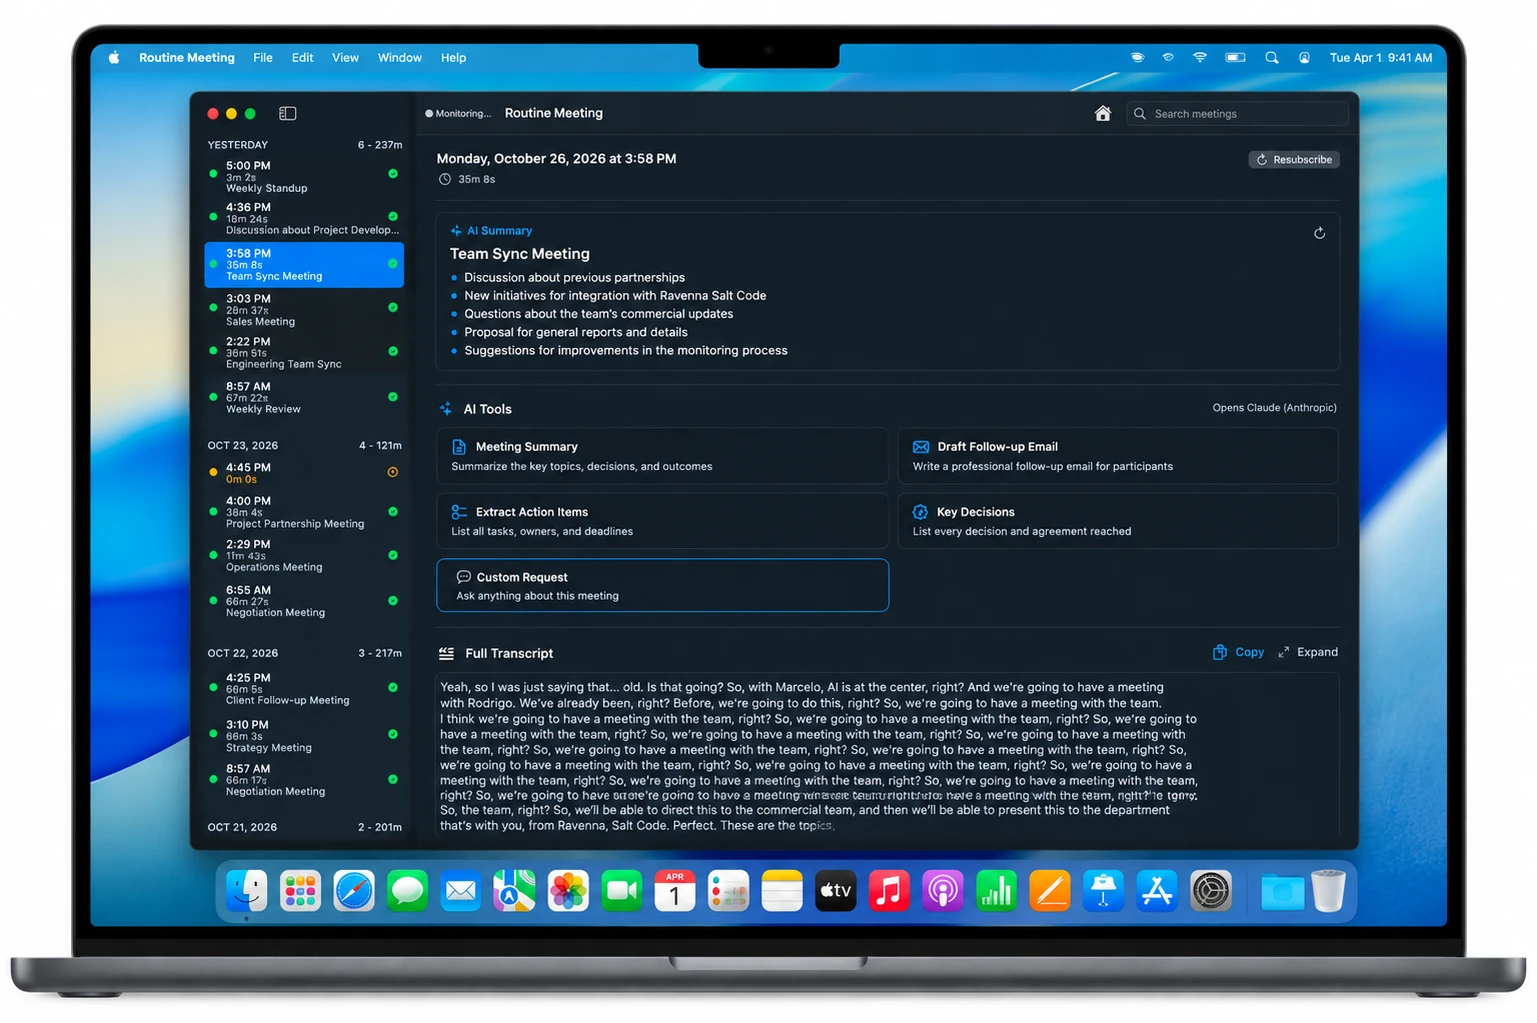
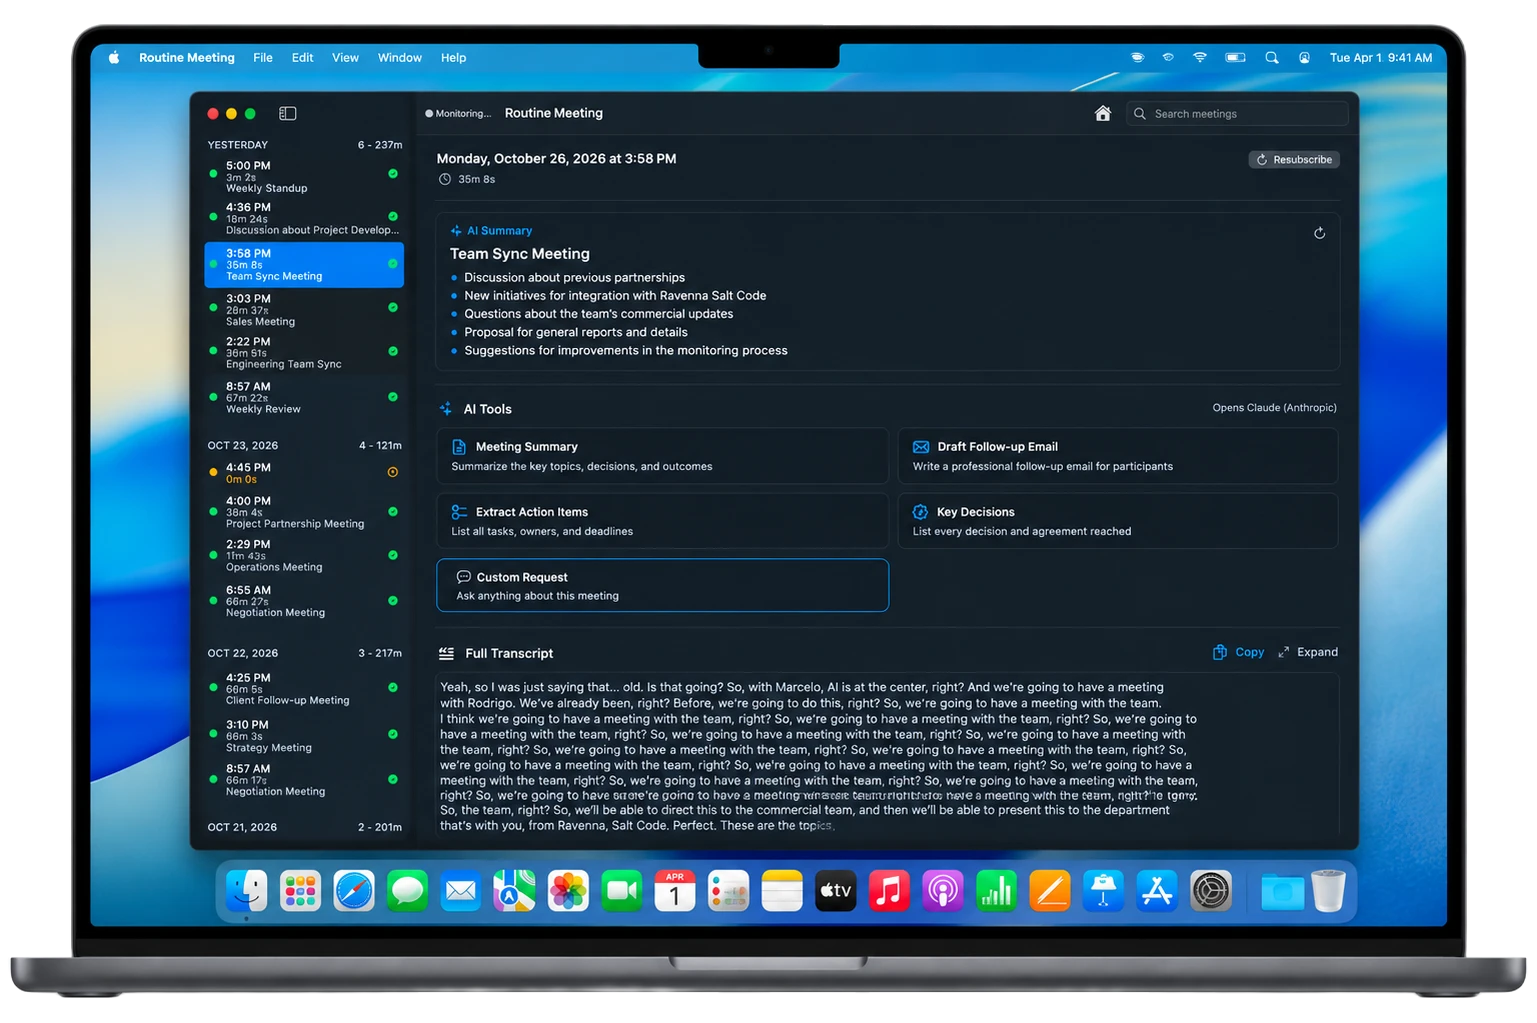
Use transparent-background screenshots and float them on the dark page
Replace the hero and meeting-view images with versions that have a
transparent background, drop the card border, radius and box shadow in
favor of a drop shadow, and cache-bust the image URLs on all pages.

Changed region(s): [[0.0312, 0.9394, 0.9681, 1.0]]

diff --git a/docs/es/index.html b/docs/es/index.html
@@ -123,7 +123,7 @@
     </div>
     <p class="hero-meta">Gratis · Apple Silicon · macOS 13+ · Sin cuenta requerida</p>
     <div class="hero-shot">
-      <img src="../screenshots/app-main.webp" width="1537" height="1023" alt="Ventana principal de Routine Meeting: lista de reuniones, estadísticas semanales y la página de inicio "De qué estás hablando"" fetchpriority="high" />
+      <img src="../screenshots/app-main.webp?v=2" width="1537" height="1023" alt="Ventana principal de Routine Meeting: lista de reuniones, estadísticas semanales y la página de inicio "De qué estás hablando"" fetchpriority="high" />
     </div>
   </header>
 
@@ -178,7 +178,7 @@
       <h2>Todo lo de la llamada, en un solo lugar</h2>
       <p class="section-lead">Abre cualquier reunión para ver su resumen con IA, herramientas de IA con un clic para el seguimiento y la transcripción completa, lista para copiar.</p>
       <div class="hero-shot showcase-shot">
-        <img src="../screenshots/app-meeting.webp" width="1537" height="1023" alt="Vista de una reunión en Routine Meeting: resumen con IA, herramientas de IA y transcripción completa" loading="lazy" />
+        <img src="../screenshots/app-meeting.webp?v=2" width="1537" height="1023" alt="Vista de una reunión en Routine Meeting: resumen con IA, herramientas de IA y transcripción completa" loading="lazy" />
       </div>
     </div>
   </section>

diff --git a/docs/pt-BR/index.html b/docs/pt-BR/index.html
@@ -123,7 +123,7 @@
     </div>
     <p class="hero-meta">Gratuito · Apple Silicon · macOS 13+ · Sem conta necessária</p>
     <div class="hero-shot">
-      <img src="../screenshots/app-main.webp" width="1537" height="1023" alt="Janela principal do Routine Meeting: lista de reuniões, estatísticas semanais e a página inicial "O que você está discutindo"" fetchpriority="high" />
+      <img src="../screenshots/app-main.webp?v=2" width="1537" height="1023" alt="Janela principal do Routine Meeting: lista de reuniões, estatísticas semanais e a página inicial "O que você está discutindo"" fetchpriority="high" />
     </div>
   </header>
 
@@ -178,7 +178,7 @@
       <h2>Tudo da call, num só lugar</h2>
       <p class="section-lead">Abra qualquer reunião para ver o resumo com IA, ferramentas de IA de um clique para o acompanhamento e a transcrição completa, pronta para copiar.</p>
       <div class="hero-shot showcase-shot">
-        <img src="../screenshots/app-meeting.webp" width="1537" height="1023" alt="Tela de uma reunião no Routine Meeting: resumo com IA, ferramentas de IA e transcrição completa" loading="lazy" />
+        <img src="../screenshots/app-meeting.webp?v=2" width="1537" height="1023" alt="Tela de uma reunião no Routine Meeting: resumo com IA, ferramentas de IA e transcrição completa" loading="lazy" />
       </div>
     </div>
   </section>

diff --git a/docs/fr/index.html b/docs/fr/index.html
@@ -124,7 +124,7 @@
     </div>
     <p class="hero-meta">Gratuit · Apple Silicon · macOS 13+ · Aucun compte requis</p>
     <div class="hero-shot">
-      <img src="../screenshots/app-main.webp" width="1537" height="1023" alt="Fenêtre principale de Routine Meeting : liste des réunions, statistiques hebdomadaires et la page d'accueil « De quoi vous parlez »" fetchpriority="high" />
+      <img src="../screenshots/app-main.webp?v=2" width="1537" height="1023" alt="Fenêtre principale de Routine Meeting : liste des réunions, statistiques hebdomadaires et la page d'accueil « De quoi vous parlez »" fetchpriority="high" />
     </div>
   </header>
 
@@ -178,7 +178,7 @@
       <h2>Tout l'appel, au même endroit</h2>
       <p class="section-lead">Ouvrez une réunion pour voir son résumé IA, des outils d'IA en un clic pour le suivi et la transcription complète, prête à copier.</p>
       <div class="hero-shot showcase-shot">
-        <img src="../screenshots/app-meeting.webp" width="1537" height="1023" alt="Vue d'une réunion dans Routine Meeting : résumé IA, outils d'IA et transcription complète" loading="lazy" />
+        <img src="../screenshots/app-meeting.webp?v=2" width="1537" height="1023" alt="Vue d'une réunion dans Routine Meeting : résumé IA, outils d'IA et transcription complète" loading="lazy" />
       </div>
     </div>
   </section>

diff --git a/docs/ja/index.html b/docs/ja/index.html
@@ -122,7 +122,7 @@
     </div>
     <p class="hero-meta">無料 · Apple Silicon · macOS 13以降 · アカウント不要</p>
     <div class="hero-shot">
-      <img src="../screenshots/app-main.webp" width="1537" height="1023" alt="Routine Meeting のメインウィンドウ:会議リスト、週間統計、「今話していること」ホーム画面" fetchpriority="high" />
+      <img src="../screenshots/app-main.webp?v=2" width="1537" height="1023" alt="Routine Meeting のメインウィンドウ:会議リスト、週間統計、「今話していること」ホーム画面" fetchpriority="high" />
     </div>
   </header>
 
@@ -172,7 +172,7 @@
       <h2>通話のすべてを一か所に</h2>
       <p class="section-lead">会議を開くと、AI要約、フォローアップ用のワンクリックAIツール、コピーできる全文の文字起こしが見られます。</p>
       <div class="hero-shot showcase-shot">
-        <img src="../screenshots/app-meeting.webp" width="1537" height="1023" alt="Routine Meeting の会議画面:AI要約、AIツール、全文の文字起こし" loading="lazy" />
+        <img src="../screenshots/app-meeting.webp?v=2" width="1537" height="1023" alt="Routine Meeting の会議画面:AI要約、AIツール、全文の文字起こし" loading="lazy" />
       </div>
     </div>
   </section>

diff --git a/docs/index.html b/docs/index.html
@@ -126,7 +126,7 @@
     </div>
     <p class="hero-meta">Free · Apple Silicon · macOS 13+ · No account required</p>
     <div class="hero-shot">
-      <img src="screenshots/app-main.webp" width="1537" height="1023" alt="Routine Meeting main window: meeting list, weekly stats and the What you're discussing home page" fetchpriority="high" />
+      <img src="screenshots/app-main.webp?v=2" width="1537" height="1023" alt="Routine Meeting main window: meeting list, weekly stats and the What you're discussing home page" fetchpriority="high" />
     </div>
   </header>
 
@@ -180,7 +180,7 @@
       <h2>Everything from the call, in one place</h2>
       <p class="section-lead">Open any meeting to see its AI summary, one-click AI tools for follow-ups, and the full transcript, ready to copy.</p>
       <div class="hero-shot showcase-shot">
-        <img src="screenshots/app-meeting.webp" width="1537" height="1023" alt="Routine Meeting meeting view: AI summary, AI tools for follow-up email, action items and key decisions, and the full transcript" loading="lazy" />
+        <img src="screenshots/app-meeting.webp?v=2" width="1537" height="1023" alt="Routine Meeting meeting view: AI summary, AI tools for follow-up email, action items and key decisions, and the full transcript" loading="lazy" />
       </div>
     </div>
   </section>

diff --git a/docs/de/index.html b/docs/de/index.html
@@ -123,7 +123,7 @@
     </div>
     <p class="hero-meta">Kostenlos · Apple Silicon · macOS 13+ · Kein Konto erforderlich</p>
     <div class="hero-shot">
-      <img src="../screenshots/app-main.webp" width="1537" height="1023" alt="Hauptfenster von Routine Meeting: Meeting-Liste, Wochenstatistik und Startseite "Worüber ihr sprecht"" fetchpriority="high" />
+      <img src="../screenshots/app-main.webp?v=2" width="1537" height="1023" alt="Hauptfenster von Routine Meeting: Meeting-Liste, Wochenstatistik und Startseite "Worüber ihr sprecht"" fetchpriority="high" />
     </div>
   </header>
 
@@ -178,7 +178,7 @@
       <h2>Alles vom Call an einem Ort</h2>
       <p class="section-lead">Öffne ein Meeting und sieh die KI-Zusammenfassung, KI-Werkzeuge für Follow-ups per Klick und das vollständige Transkript, bereit zum Kopieren.</p>
       <div class="hero-shot showcase-shot">
-        <img src="../screenshots/app-meeting.webp" width="1537" height="1023" alt="Meeting-Ansicht in Routine Meeting: KI-Zusammenfassung, KI-Werkzeuge und vollständiges Transkript" loading="lazy" />
+        <img src="../screenshots/app-meeting.webp?v=2" width="1537" height="1023" alt="Meeting-Ansicht in Routine Meeting: KI-Zusammenfassung, KI-Werkzeuge und vollständiges Transkript" loading="lazy" />
       </div>
     </div>
   </section>

diff --git a/docs/ko/index.html b/docs/ko/index.html
@@ -122,7 +122,7 @@
     </div>
     <p class="hero-meta">무료 · Apple Silicon · macOS 13 이상 · 계정 불필요</p>
     <div class="hero-shot">
-      <img src="../screenshots/app-main.webp" width="1537" height="1023" alt="Routine Meeting 메인 창: 회의 목록, 주간 통계, "지금 논의 중인 내용" 홈 화면" fetchpriority="high" />
+      <img src="../screenshots/app-main.webp?v=2" width="1537" height="1023" alt="Routine Meeting 메인 창: 회의 목록, 주간 통계, "지금 논의 중인 내용" 홈 화면" fetchpriority="high" />
     </div>
   </header>
 
@@ -172,7 +172,7 @@
       <h2>통화의 모든 것을 한곳에</h2>
       <p class="section-lead">회의를 열면 AI 요약, 후속 작업용 원클릭 AI 도구, 바로 복사할 수 있는 전체 전사본을 볼 수 있습니다.</p>
       <div class="hero-shot showcase-shot">
-        <img src="../screenshots/app-meeting.webp" width="1537" height="1023" alt="Routine Meeting 회의 화면: AI 요약, AI 도구, 전체 전사본" loading="lazy" />
+        <img src="../screenshots/app-meeting.webp?v=2" width="1537" height="1023" alt="Routine Meeting 회의 화면: AI 요약, AI 도구, 전체 전사본" loading="lazy" />
       </div>
     </div>
   </section>

diff --git a/docs/zh-CN/index.html b/docs/zh-CN/index.html
@@ -122,7 +122,7 @@
     </div>
     <p class="hero-meta">免费 · Apple Silicon · macOS 13 及以上 · 无需账号</p>
     <div class="hero-shot">
-      <img src="../screenshots/app-main.webp" width="1537" height="1023" alt="Routine Meeting 主窗口:会议列表、每周统计和"你们正在讨论什么"主页" fetchpriority="high" />
+      <img src="../screenshots/app-main.webp?v=2" width="1537" height="1023" alt="Routine Meeting 主窗口:会议列表、每周统计和"你们正在讨论什么"主页" fetchpriority="high" />
     </div>
   </header>
 
@@ -172,7 +172,7 @@
       <h2>通话的一切,集中在一处</h2>
       <p class="section-lead">打开任意会议,即可查看 AI 摘要、用于后续跟进的一键 AI 工具,以及可直接复制的完整转录。</p>
       <div class="hero-shot showcase-shot">
-        <img src="../screenshots/app-meeting.webp" width="1537" height="1023" alt="Routine Meeting 会议界面:AI 摘要、AI 工具和完整转录" loading="lazy" />
+        <img src="../screenshots/app-meeting.webp?v=2" width="1537" height="1023" alt="Routine Meeting 会议界面:AI 摘要、AI 工具和完整转录" loading="lazy" />
       </div>
     </div>
   </section>

diff --git a/docs/styles.css b/docs/styles.css
@@ -548,17 +548,12 @@ footer {
   z-index: 1;
   width: 100%;
   height: auto;
-  border-radius: 14px;
-  border: 1px solid var(--border-hover);
-  box-shadow: 0 30px 80px rgba(0, 0, 0, 0.55), 0 0 0 1px rgba(0, 0, 0, 0.4);
+  filter: drop-shadow(0 24px 50px rgba(0, 0, 0, 0.55));
 }
 
 @media (max-width: 640px) {
   .hero-shot {
     margin-top: 44px;
-  }
-  .hero-shot img {
-    border-radius: 10px;
   }
 }
 
